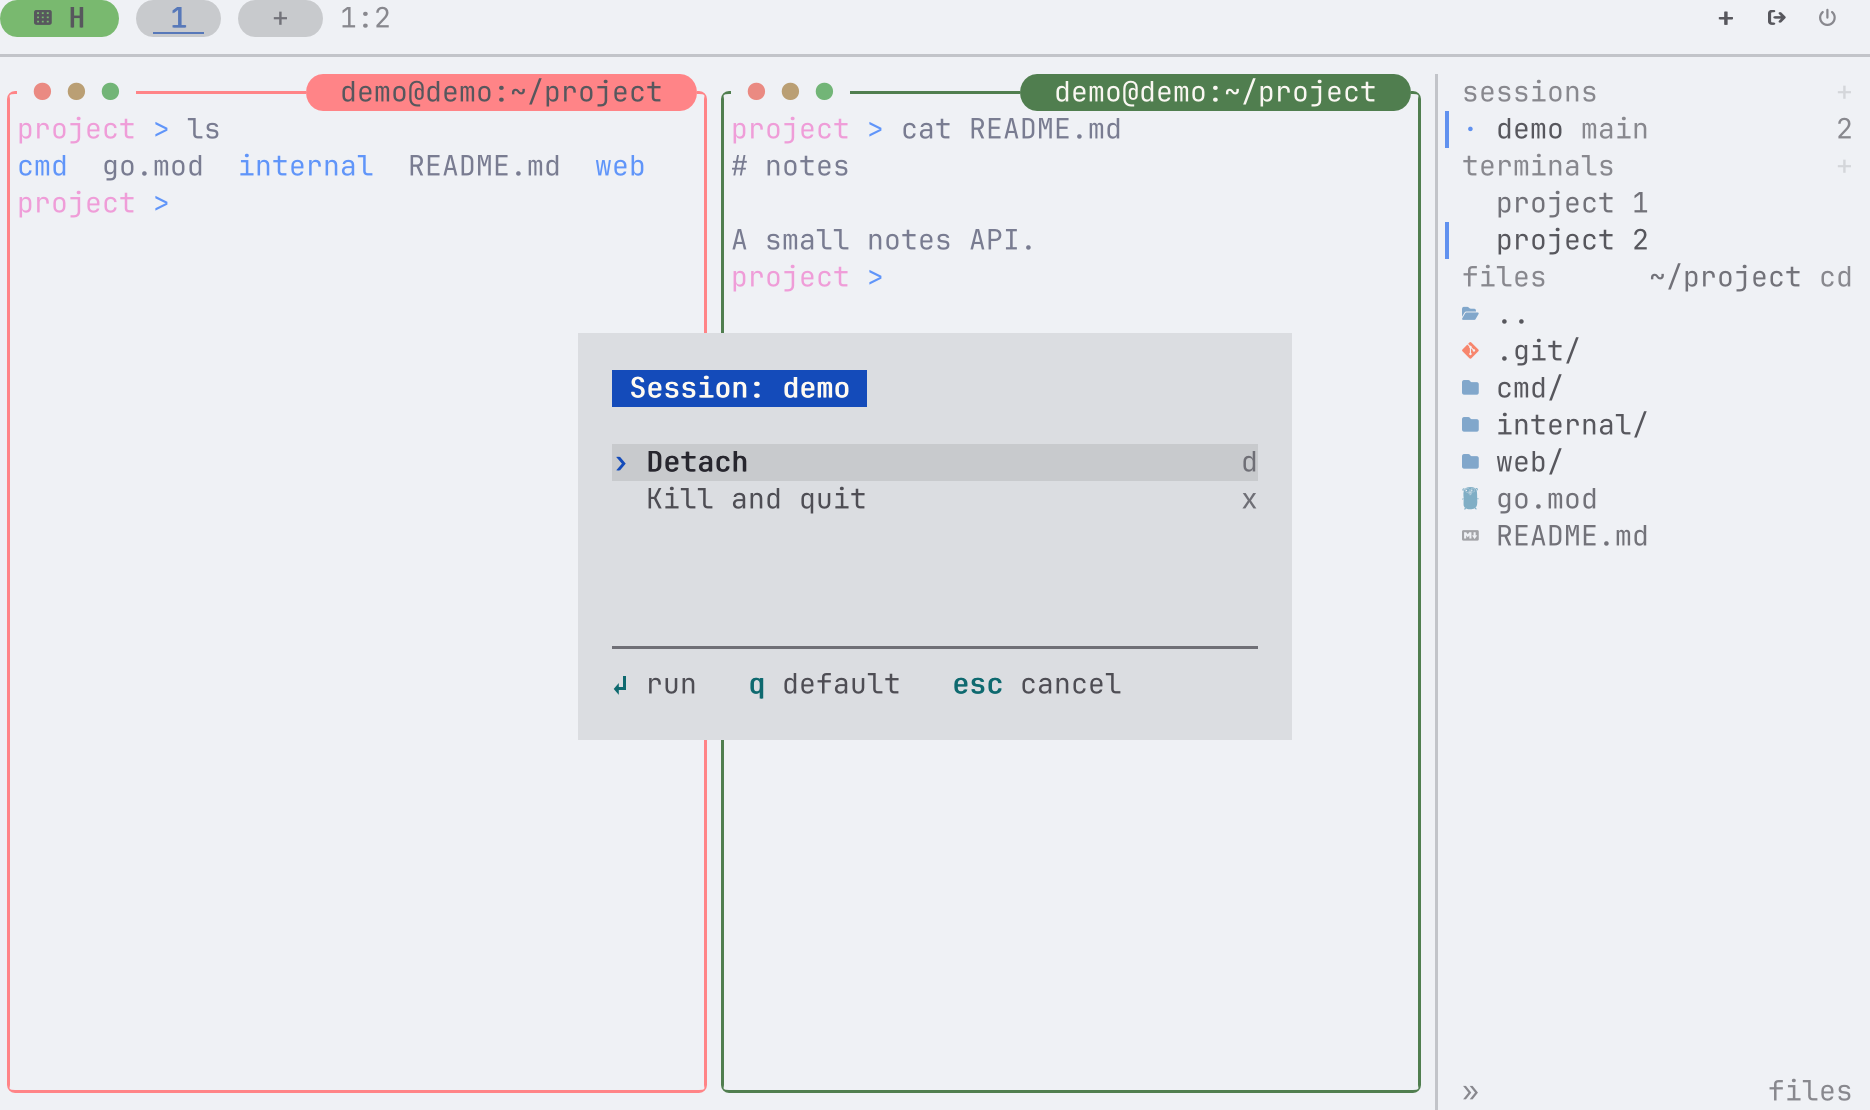
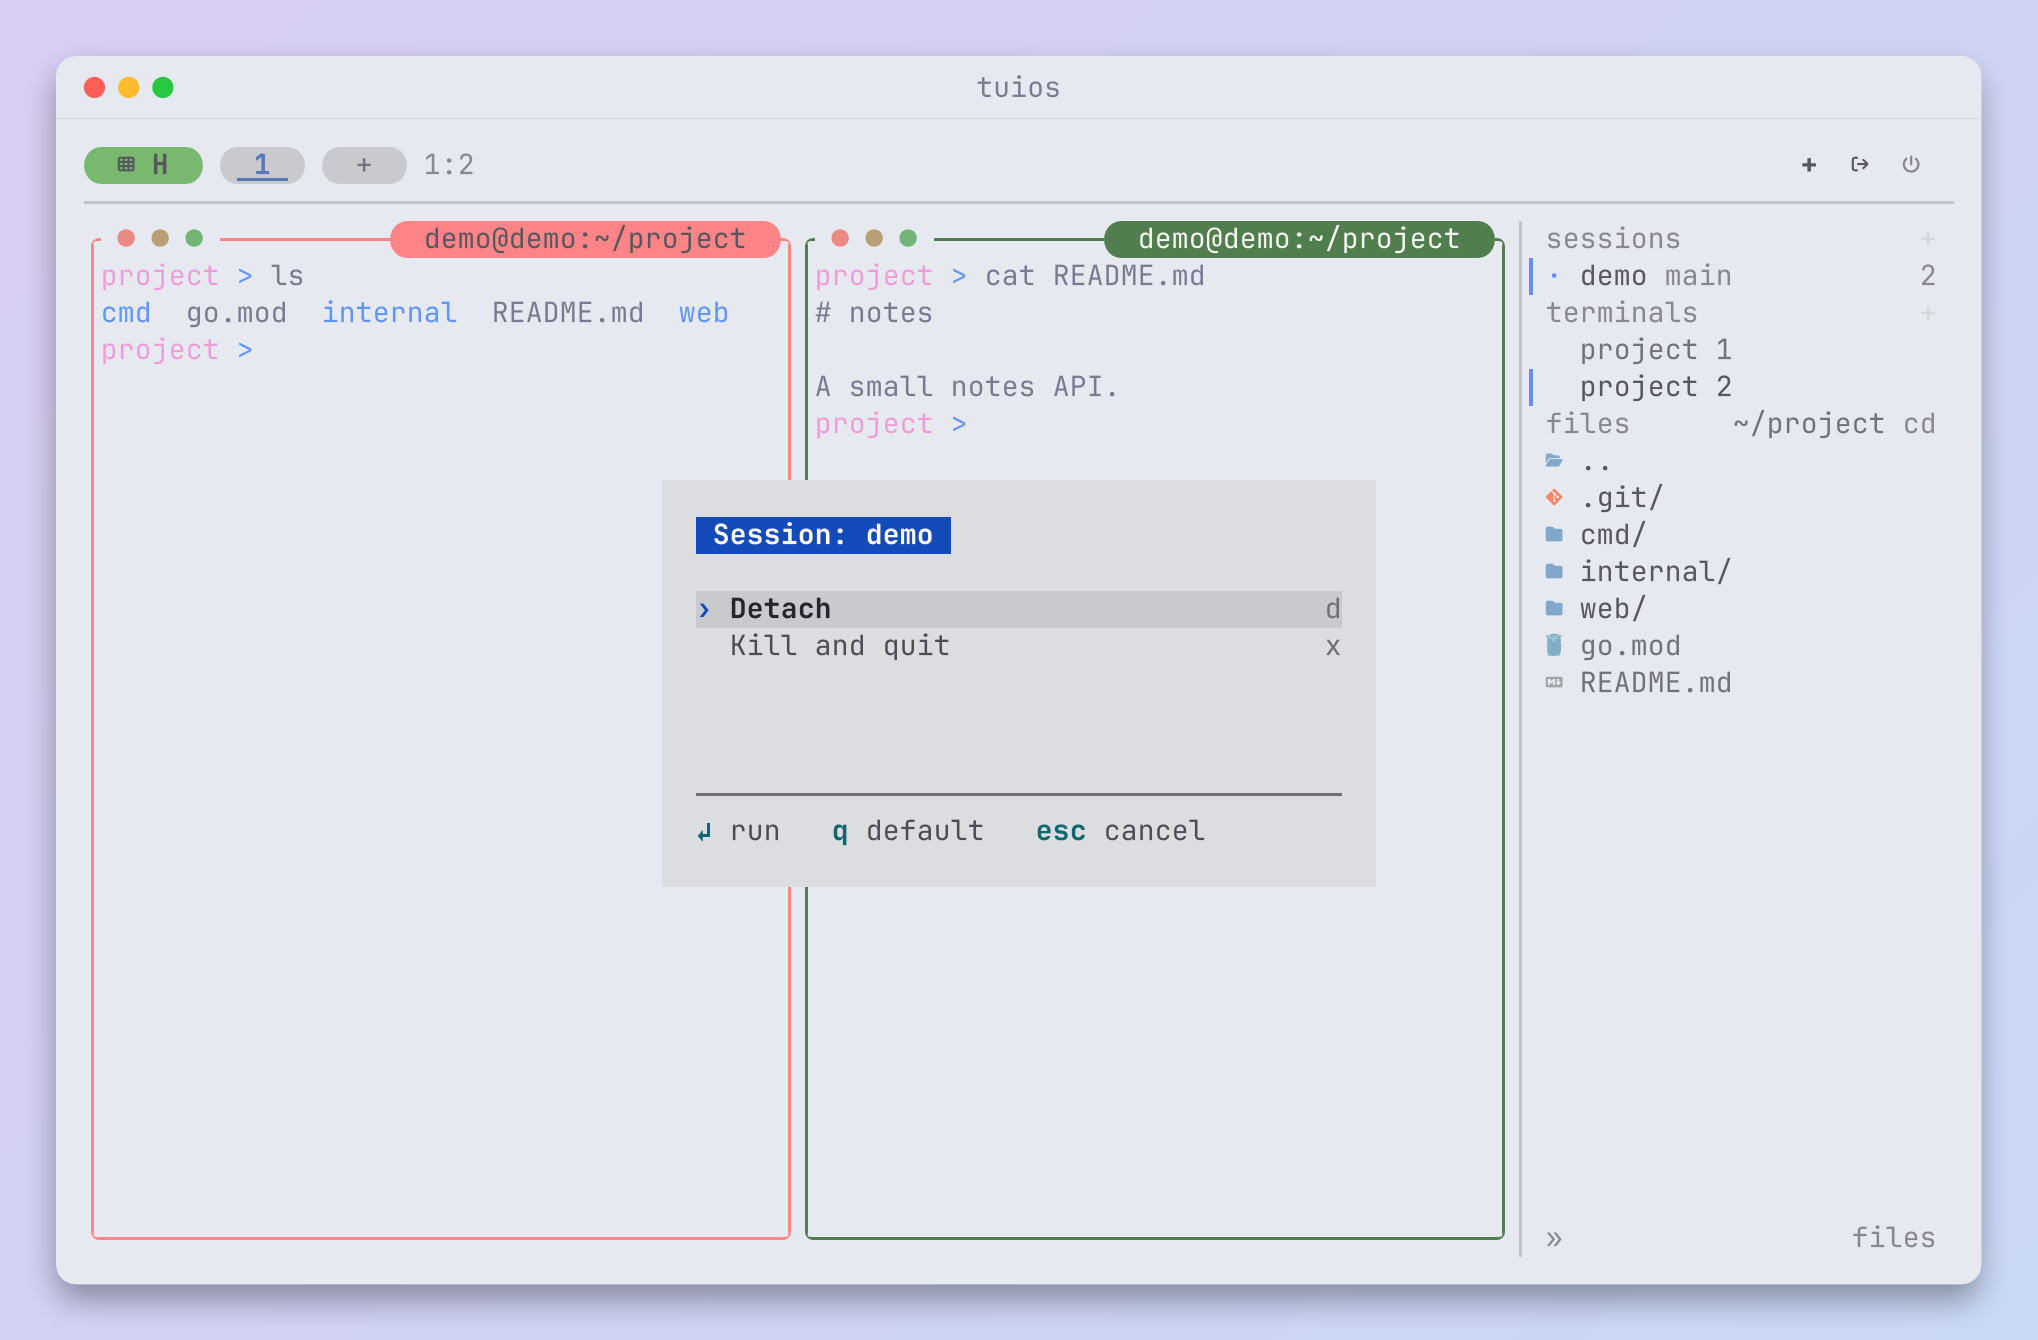
docs(media): draw the docs shots in a window card

Changed region(s): [[0.0, 0.0, 1.0, 1.0], [0.3412, 0.582, 0.6513, 0.6432], [0.6513, 0.4288, 0.6824, 0.4595]]

diff --git a/components/docs/shot.tsx b/components/docs/shot.tsx
@@ -23,6 +23,10 @@ export const SHOT_SIZES = {
  * The page then shows the picture that matches the site theme. The other one
  * stays hidden, and a hidden lazy image is not fetched.
  *
+ * With `framed`, the picture already holds its own window card: the frame,
+ * the rounded corners, the shadow and the wash behind it, drawn by tuios.dev/shot
+ * (see media/rig.py). The page then draws no border of its own.
+ *
  * With `href`, the picture links to that address, such as the full size file
  * of a screen too wide to read at the column's width.
  */
@@ -36,6 +40,7 @@ export function Shot({
   sizes = SHOT_SIZES.docs,
   href,
   priority = false,
+  framed = false,
 }: {
   name: string;
   alt: string;
@@ -50,6 +55,8 @@ export function Shot({
    * paint: load it at once and ahead of the rest, not lazily.
    */
   priority?: boolean;
+  /** The picture has its own window card, so the page adds no border. */
+  framed?: boolean;
 }) {
   // A picture made outside scripts/docs-media.sh, such as a blog post's chart
   // or a page of the site, is 1600 wide with an 800 wide file beside it.
@@ -74,7 +81,13 @@ export function Shot({
     />
   );
   const frame = (
-    <div className="overflow-hidden rounded-xl border border-fd-border">
+    <div
+      className={
+        framed
+          ? undefined
+          : "overflow-hidden rounded-xl border border-fd-border"
+      }
+    >
       {light ? (
         <>
           {img(`${name}-light`, "dark:hidden")}

diff --git a/tools/libshots/frame.go b/tools/libshots/frame.go
@@ -1,0 +1,64 @@
+package main
+
+import (
+	"bytes"
+	"flag"
+	"fmt"
+	"os"
+
+	"tuios.dev/shot"
+	"tuios.dev/vt"
+)
+
+// runFrame is "libshots frame": it draws a screen that tuios captured as
+// ANSI (screenshot.format = "ansi") in a window card, as a PNG at scale 2.
+// scripts/docs-media.sh runs it on every shot a scene takes, so the docs
+// shots of tuios wear the same card as the library pictures.
+//
+// tuios itself draws a capture of the whole screen as a plain card, since
+// the screen is not a window. On a docs page the picture stands for the
+// terminal that tuios runs in, so the card gets the window controls and
+// the title of that terminal.
+func runFrame(args []string) error {
+	fs := flag.NewFlagSet("frame", flag.ExitOnError)
+	in := fs.String("in", "", "the ANSI capture")
+	out := fs.String("out", "", "the PNG to write")
+	cols := fs.Int("cols", 0, "the columns of the capture")
+	rows := fs.Int("rows", 0, "the rows of the capture")
+	isLight := fs.Bool("light", false, "draw the light card")
+	title := fs.String("title", "tuios", "the title of the card")
+	regular := fs.String("font", "", "the regular face, a TTF or OTF file")
+	bold := fs.String("bold", "", "the bold face of the same family")
+	_ = fs.Parse(args)
+	if *in == "" || *out == "" || *cols <= 0 || *rows <= 0 || *regular == "" || *bold == "" {
+		return fmt.Errorf("usage: libshots frame -in A.ans -out A.png -cols N -rows N -font REGULAR -bold BOLD [-light]")
+	}
+	data, err := os.ReadFile(*in)
+	if err != nil {
+		return err
+	}
+	reg, err := os.ReadFile(*regular)
+	if err != nil {
+		return err
+	}
+	bld, err := os.ReadFile(*bold)
+	if err != nil {
+		return err
+	}
+	t := dark
+	if *isLight {
+		t = light
+	}
+	term := vt.NewEmulator(*cols, *rows)
+	// The capture ends each row with a bare line feed.
+	_, _ = term.Write(bytes.ReplaceAll(bytes.TrimRight(data, "\n"), []byte("\n"), []byte("\r\n")))
+	grid := shot.FromScreen(term, t.term)
+	_ = term.Close()
+	f := &shot.Frame{Font: shot.Font{Data: reg}, BoldFont: shot.Font{Data: bld}, Scale: 2}
+	dressWindow(f, t, *title)
+	png, err := shot.Render(shot.FormatPNG, grid, f)
+	if err != nil {
+		return err
+	}
+	return os.WriteFile(*out, png, 0o644)
+}

diff --git a/media/rig.py b/media/rig.py
@@ -131,6 +131,21 @@ RESPONDERS = [
 ]
 
 
+def capture_format(scene):
+    """The format tuios writes each screenshot of a scene in.
+
+    "format" in scene.json wins: png, or html and svg for a page that lays
+    out the cells itself. A shot scene with no format is captured as ANSI:
+    scripts/docs-media.sh draws it in the window card of the docs with
+    tools/libshots (libshots frame). "frame": "none" keeps the plain PNG.
+    """
+    if "format" in scene:
+        return scene["format"]
+    if scene.get("kind") == "shot" and scene.get("frame", "window") == "window":
+        return "ansi"
+    return "png"
+
+
 def merge(into, other):
     """Merge the TOML tables of other into into, other winning."""
     for k, v in other.items():
@@ -245,7 +260,7 @@ def main():
         "screenshot": {
             # "format" in scene.json: png unless the page wants the cells, as
             # html or svg, to lay out itself.
-            "directory": shots_dir, "format": scene.get("format", "png"), "frame": "none", "copy": False,
+            "directory": shots_dir, "format": capture_format(scene), "frame": "none", "copy": False,
             "preview": False, "scale": 2,
             # scripts/docs-media.sh sets the font. The renderer has one file
             # for every weight, so a shot draws bold in the regular face.
@@ -427,7 +442,8 @@ def main():
         if short_home:
             shutil.rmtree(env_root, ignore_errors=True)
 
-    ext = scene.get("format", "png")
+    # tuios names an ANSI capture .ans.
+    ext = {"ansi": "ans"}.get(capture_format(scene), capture_format(scene))
     taken = sorted(glob.glob(os.path.join(shots_dir, f"*.{ext}")), key=os.path.getmtime)
     names = scene.get("shots", [])
     if len(taken) != len(names):

diff --git a/tools/libshots/render.go b/tools/libshots/render.go
@@ -165,15 +165,7 @@ func (g *gen) write(name string, t theme, grid *shot.Grid, p pic) error {
 	case card:
 		f.Mode = shot.FramePlain
 	case window:
-		f.Mode = shot.FrameWindow
-		f.Title = p.title
-		f.Padding = 28
-		f.Radius = 10
-		f.Shadow = true
-		f.Transparent = false
-		f.WashStart, f.WashEnd = t.wash[0], t.wash[1]
-		f.Accent = t.term.ANSI[5]
-		f.Controls = shot.ControlsMacOS
+		dressWindow(f, t, p.title)
 	}
 	png, err := shot.Render(shot.FormatPNG, grid, f)
 	if err != nil {
@@ -194,6 +186,22 @@ func (g *gen) write(name string, t theme, grid *shot.Grid, p pic) error {
 	}
 	g.sizes[name] = sz
 	return nil
+}
+
+// dressWindow gives f the window card every docs picture of a terminal
+// wears: the macOS controls and a title, rounded corners, a soft shadow,
+// and the theme's wash behind the card. The e2e frames of tuios wear the
+// same card.
+func dressWindow(f *shot.Frame, t theme, title string) {
+	f.Mode = shot.FrameWindow
+	f.Title = title
+	f.Padding = 28
+	f.Radius = 10
+	f.Shadow = true
+	f.Transparent = false
+	f.WashStart, f.WashEnd = t.wash[0], t.wash[1]
+	f.Accent = t.term.ANSI[5]
+	f.Controls = shot.ControlsMacOS
 }
 
 func pngSize(b []byte) (int, int) {

diff --git a/tools/libshots/main.go b/tools/libshots/main.go
@@ -44,6 +44,12 @@ func register(name string, draw func(g *gen) error) {
 }
 
 func main() {
+	if len(os.Args) > 1 && os.Args[1] == "frame" {
+		if err := runFrame(os.Args[2:]); err != nil {
+			log.Fatal(err)
+		}
+		return
+	}
 	out := flag.String("out", "", "folder for the PNG files")
 	manifest := flag.String("manifest", "lib/libshots.json", "the size of each picture, for the LibShot component")
 	snippets := flag.String("snippets", "tools/libshots/snippets", "folder for the code regions the pages include")
